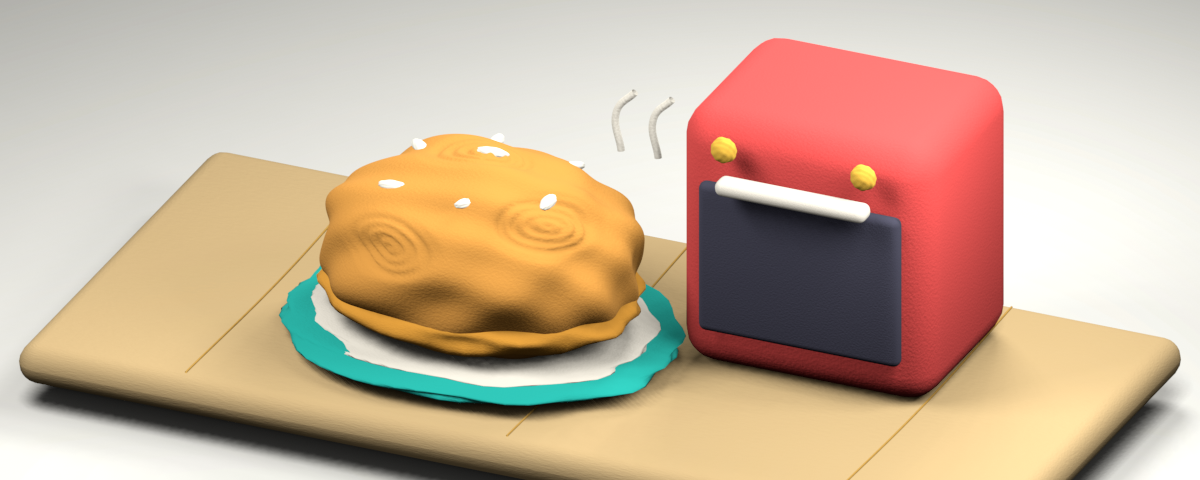
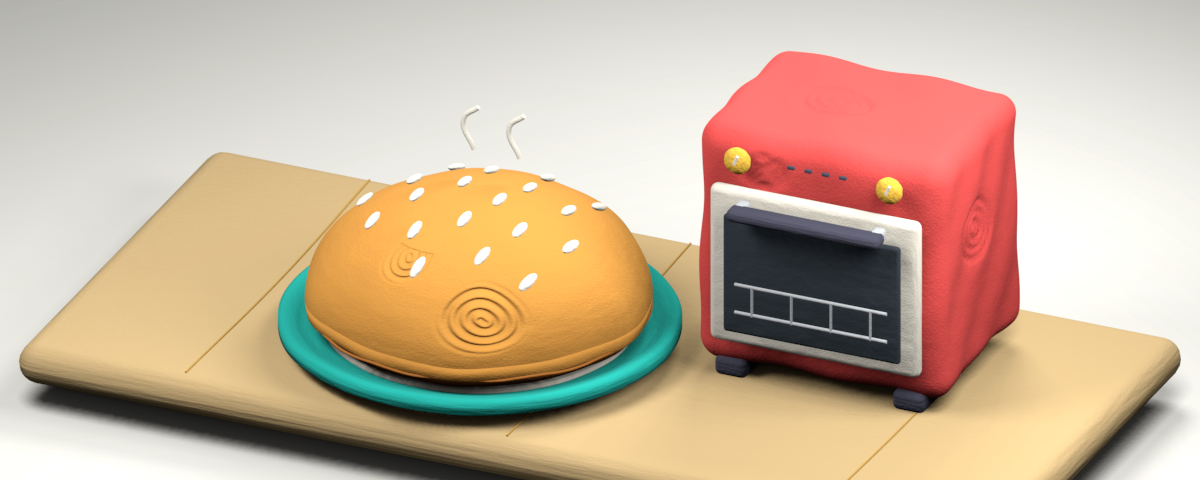
Refine clay miniature proportions and separate process labels

Changed region(s): [[0.2158, 0.0625, 0.8633, 0.9062]]

diff --git a/video-pipeline/pilot/burger/clay/sculpt.py b/video-pipeline/pilot/burger/clay/sculpt.py
@@ -3,7 +3,7 @@
 blender -b -t 4 --python sculpt.py -- [output-directory] [scene filter] [pose]
 No reference image is copied into the artwork. All meshes/materials are procedural.
 """
-import bpy, math, os, sys
+import bpy, bmesh, math, os, sys
 from mathutils import Vector
 
 args = sys.argv[sys.argv.index('--') + 1:] if '--' in sys.argv else []
@@ -27,7 +27,12 @@ def material(name, color, rough=.94):
     noise = nodes.new('ShaderNodeTexNoise'); noise.inputs['Scale'].default_value = 105
     noise.inputs['Detail'].default_value = 3; noise.inputs['Roughness'].default_value = .7
     bump = nodes.new('ShaderNodeBump'); bump.inputs['Strength'].default_value = .24; bump.inputs['Distance'].default_value = .025
-    links.new(noise.outputs['Fac'], bump.inputs['Height']); links.new(bump.outputs['Normal'], bs.inputs['Normal'])
+    links.new(noise.outputs['Fac'], bump.inputs['Height'])
+    broad = nodes.new('ShaderNodeTexNoise'); broad.inputs['Scale'].default_value = 7
+    broad.inputs['Detail'].default_value = 2
+    kneaded = nodes.new('ShaderNodeBump'); kneaded.inputs['Strength'].default_value = .28; kneaded.inputs['Distance'].default_value = .045
+    links.new(broad.outputs['Fac'], kneaded.inputs['Height']); links.new(bump.outputs['Normal'], kneaded.inputs['Normal'])
+    links.new(kneaded.outputs['Normal'], bs.inputs['Normal'])
     return mat
 
 def finish(obj, mat):
@@ -42,24 +47,24 @@ def ball(name, pos, scale, mat, seed=1, dents=False):
     obj = bpy.context.object; obj.name = name
     patches = []
     if dents:
-        for center in [(-.35,-.84,.42), (.58,-.42,.70), (-.05,.14,.99)]:
+        for center in [(.35,-.84,.42)]:
             normal = Vector(center).normalized()
             tangent = normal.cross(Vector((0,0,1))).normalized()
             patches.append((normal, tangent, normal.cross(tangent)))
     for v in obj.data.vertices:
         n = v.co.normalized(); x,y,z = n
-        irregular = 1 + .040*math.sin(x*6+y*4+seed)*math.cos(z*7-x*3) + .019*math.sin(y*15+z*8+seed)
+        irregular = 1 + .018*math.sin(x*6+y*4+seed)*math.cos(z*7-x*3) + .006*math.sin(y*15+z*8+seed)
         if dents:
             for normal, tangent, bitangent in patches:
                 if n.dot(normal) < .85: continue
                 u, w = n.dot(tangent), n.dot(bitangent)
-                radius = math.sqrt((u/.40)**2 + (w/.32)**2)
+                radius = math.sqrt((u/.23)**2 + (w/.17)**2)
                 if radius < 1:
                     mask = min(1, (1-radius)*4)
                     # Concentric, slightly asymmetric fingertip ridges pressed into dough.
                     whorl = radius + .045*math.sin(math.atan2(w,u)*2)
                     groove = .5 + .5*math.cos(whorl*math.tau*4)
-                    irregular -= mask*(.018 + .032*groove)
+                    irregular -= mask*(.006 + .008*groove)
         v.co *= irregular
     # Refresh normals after sculpting; otherwise grooves keep smooth-sphere shading.
     obj.data.update()
@@ -71,9 +76,47 @@ def block(name, pos, scale, mat, bevel=.15):
     mod=obj.modifiers.new('Soft hand-shaped corners', 'BEVEL'); mod.width=bevel; mod.segments=5
     return finish(obj, mat)
 
+def fingerprint(u, v, width=.30, height=.22, depth=.035):
+    """A pressed asymmetric whorl, resolved in geometry rather than painted rings."""
+    u/=width; v/=height; radius=math.hypot(u,v)
+    if radius>=1: return 0
+    whorl=radius+.035*math.sin(2*math.atan2(v,u))
+    mask=min(1,(1-radius)*4)
+    return depth*mask*(.55+.45*math.cos(whorl*math.tau*4))
+
+def hand_block(name,pos,scale,mat,bevel=.15):
+    """A legible rounded appliance with dense, genuinely thumb-pressed surfaces."""
+    count=64; vertices=[]; faces=[]; half=Vector(scale)*.5
+    inner=Vector(tuple(max(.001,h-bevel) for h in half))
+    for axis in range(3):
+      for side in [-1,1]:
+        base=len(vertices); other=[n for n in range(3) if n!=axis]
+        for j in range(count+1):
+          for i in range(count+1):
+            p=Vector((0,0,0)); p[axis]=side*half[axis]
+            p[other[0]]=(i/count*2-1)*half[other[0]]; p[other[1]]=(j/count*2-1)*half[other[1]]
+            core=Vector(tuple(max(-inner[n],min(inner[n],p[n])) for n in range(3)))
+            normal=(p-core).normalized(); p=core+normal*bevel
+            x,y,z=p
+            pressed=.014*math.sin(x*7+y*4+z*3)+.009*math.cos(y*11-z*7)
+            if axis==2 and side==1: pressed-=fingerprint(x+.20,y-.03,.34,.26,.045)
+            if axis==0 and side==1: pressed-=fingerprint(y+.12,z-.20,.31,.31,.040)
+            if axis==1 and side==-1: pressed-=fingerprint(x+.44,z-.69,.22,.16,.028)
+            vertices.append(tuple(p+normal*pressed))
+        for j in range(count):
+          for i in range(count):
+            a=base+j*(count+1)+i; faces.append((a,a+1,a+count+2,a+count+1))
+    mesh=bpy.data.meshes.new(name); mesh.from_pydata(vertices,[],faces)
+    bm=bmesh.new(); bm.from_mesh(mesh)
+    bmesh.ops.remove_doubles(bm,verts=list(bm.verts),dist=.0001)
+    bmesh.ops.recalc_face_normals(bm,faces=list(bm.faces)); bm.to_mesh(mesh); bm.free(); mesh.update()
+    obj=bpy.data.objects.new(name,mesh); bpy.context.collection.objects.link(obj); obj.location=pos
+    return finish(obj,mat)
+
 def rope(name, points, radius, mat):
     curve=bpy.data.curves.new(name, 'CURVE'); curve.dimensions='3D'; curve.resolution_u=12
     curve.bevel_depth=radius; curve.bevel_resolution=4; curve.resolution_u=16
+    curve.use_fill_caps=True
     spline=curve.splines.new('BEZIER'); spline.bezier_points.add(len(points)-1)
     for bp, p in zip(spline.bezier_points,points): bp.co=p; bp.handle_left_type=bp.handle_right_type='AUTO'
     obj=bpy.data.objects.new(name,curve); bpy.context.collection.objects.link(obj); return finish(obj,mat)
@@ -82,11 +125,39 @@ def ring(name, pos, radius, thickness, mat, sy=1):
     pts=[(pos[0]+radius*math.cos(i*math.tau/48),pos[1]+radius*math.sin(i*math.tau/48)*sy,pos[2]+.007*math.sin(i*1.7)) for i in range(49)]
     return rope(name,pts,thickness,mat)
 
-def fingerprints(pos, rx, ry, mat):
-    x,y,z=pos
-    for j in range(4):
-        pts=[(x+(rx+j*.026)*math.cos(a),y-.007*j,z+(ry+j*.016)*math.sin(a)) for a in [math.pi*(.18+k*.036) for k in range(17)]]
-        rope('Pressed fingerprint ridge',pts,.008,mat)
+def lathe(name, pos, profile, mat, scale=(1,1,1), seed=1, hand=.008, stamp=False):
+    """Closed, round silhouettes with deliberate sidewalls, rims and flat bases."""
+    segments=512 if stamp else 160; vertices=[]; faces=[]
+    for z,r in profile:
+        for i in range(segments):
+            a=math.tau*i/segments
+            wobble=1+hand*math.sin(5*a+seed)*math.sin(z*5+.5)+hand*.35*math.cos(11*a+seed)
+            rr=r*wobble
+            if stamp and r>.65:
+                u=(a-math.tau if a>math.pi else a)+1.14
+                rr-=fingerprint(u,z-.49,.32,.19,.040)
+                rr-=fingerprint(u+.70,z-.73,.25,.12,.027)
+            vertices.append((rr*math.cos(a)*scale[0],rr*math.sin(a)*scale[1],z*scale[2]))
+    for j in range(len(profile)-1):
+        for i in range(segments):
+            n=(i+1)%segments; a=j*segments; b=(j+1)*segments
+            faces.append((a+i,a+n,b+n,b+i))
+    mesh=bpy.data.meshes.new(name); mesh.from_pydata(vertices,[],faces); mesh.update()
+    obj=bpy.data.objects.new(name,mesh); bpy.context.collection.objects.link(obj); obj.location=pos
+    return finish(obj,mat)
+
+def rod(name, a, b, radius, mat):
+    """A capped wooden/metal shaft with softly rounded ends."""
+    return rope(name,[a,b],radius,mat)
+
+def puck(name,pos,radius,height,mat,seed=1,stamp=False):
+    bevel=min(.12,height*.28); inner=radius-bevel
+    profile=[(0,0),(0,inner)]
+    profile += [(bevel+bevel*math.sin(a),inner+bevel*math.cos(a)) for a in [-math.pi/2+i*math.pi/24 for i in range(13)]]
+    profile += [(height-bevel,radius)]
+    profile += [(height-bevel+bevel*math.sin(a),inner+bevel*math.cos(a)) for a in [i*math.pi/24 for i in range(13)]]
+    profile += [(height-.008,inner*.7),(height-.014,inner*.35),(height-.014,0)]
+    return lathe(name,pos,profile,mat,seed=seed,hand=.008,stamp=stamp)
 
 def setup():
     bpy.ops.object.select_all(action='SELECT'); bpy.ops.object.delete(use_global=False)
@@ -102,7 +173,8 @@ def setup():
       'yellow':'F7C344','dough':'F5D177','orange':'EAA337','bread':'E6A044',
       'teal':'18BBAE','blue':'368DCC','red':'F0514E','pink':'E66B82','meat':'845239',
       'cream':'F5EEE0','table':'D8B984','white':'FFFBED','dark':'474658','green':'59B94F',
-      'print':'D4A44B','brownprint':'70422C','backdrop':'F4F2EB','silver':'C6C9CE'}.items()}
+      'print':'D4A44B','brownprint':'57392C','backdrop':'F4F2EB','silver':'C6C9CE',
+      'crumb':'F4D496','crust':'BF762E','fat':'EBA8AB','rawdetail':'C44C66','glass':'343D46'}.items()}
     block('Clay worktop', (0,0,-.10),(7.9,3.7,.32),M['table'],.22)
     # Small uneven seams make the tabletop a built miniature rather than a UI rectangle.
     for x in [-2.6,0,2.6]:
@@ -117,107 +189,157 @@ def setup():
     return M
 
 def plate(x,y,M,r=1.3):
-    ball('Plate',(x,y,.19),(r,r*.8,.11),M['teal'],14)
-    ball('Plate center',(x,y,.25),(r*.87,r*.68,.075),M['cream'],15)
+    lathe('Thick plate with rolled rim',(x,y,.08),[(0,0),(0,r*.7),(.04,r*.9),(.12,r),(.20,r),(.23,r*.97),(.19,r*.9),(.12,r*.76),(.12,0)],M['teal'],hand=.004)
+    puck('Cream plate well',(x,y,.19),r*.77,.045,M['cream'])
 
 def bun(x,y,z,M,scale=1, baked=True):
-    # Separate hand-pressed bottom rim, irregular dome and individually rolled sesame.
-    ball('Pressed bun rim',(x,y,z-.14*scale),(1.04*scale,.83*scale,.22*scale),M['orange'] if baked else M['dough'],7)
-    ball('Hand-molded bun',(x,y,z+.12*scale),(1.03*scale,.83*scale,.62*scale),M['bread'] if baked else M['dough'],8,True)
+    # One continuous dome: a stable flat base, narrow crumb band and rounded shoulder.
+    profile=[(0,0),(0,.90),(.04,1.04),(.12,1.11),(.21,1.12)]
+    profile += [(.21+.67*math.cos(a),1.12*math.sin(a)) for a in [math.pi/2-i*math.pi/384 for i in range(193)]]
+    obj=lathe('Round bun dome',(x,y,z),profile,M['bread'] if baked else M['dough'],(scale,scale,scale),seed=8,hand=.018,stamp=True)
     if baked:
-      for j,(dx,dy) in enumerate([(-.45,-.32),(.1,-.4),(.52,-.16),(-.5,.2),(0,.15),(.43,.35),(-.12,.48)]):
-        zz=z+.10*scale+.62*scale*math.sqrt(max(.1,1-(dx/1.03)**2-(dy/.83)**2))
-        seed=ball('Rolled sesame',(x+dx*scale,y+dy*scale,zz),(.11*scale,.043*scale,.033*scale),M['white'],j+1)
-        seed.rotation_euler[2]=j*.8
-    else:
-      fingerprints((x-.17*scale,y-.73*scale,z+.23*scale),.19*scale,.11*scale,M['print'])
+      obj.data.materials.append(M['crumb']); obj.data.materials.append(M['crust'])
+      for polygon in obj.data.polygons:
+        row=polygon.index//512
+        if row<2: polygon.material_index=1
+        elif row==2: polygon.material_index=2
+      for j in range(19):
+        a=j*2.39996; rr=.86*math.sqrt((j+.5)/19)
+        dx,dy=rr*math.cos(a),rr*math.sin(a)
+        zz=z+scale*(.21+.67*math.sqrt(1-(rr/1.12)**2))+.020
+        seed=ball('Individual sesame',(x+dx*scale,y+dy*scale,zz),(.086*scale,.035*scale,.023*scale),M['white'],j+1)
+        normal=Vector((dx/1.12**2,dy/1.12**2,math.sqrt(1-(rr/1.12)**2)/.67))
+        seed.rotation_euler=normal.to_track_quat('Z','Y').to_euler(); seed.rotation_euler.rotate_axis('Z',j*.73)
+      ring('Bun lower crease',(x,y,z+.115*scale),1.108*scale,.009*scale,M['crust'])
 
 def flour_jar(M):
-    block('Flour jar',(-2.6,.65,.55),(.74,.7,.96),M['cream'],.18)
-    block('Rolled red lid',(-2.6,.65,1.08),(.86,.79,.18),M['red'],.09)
-    rope('Wheat stem',[(-2.65,.275,.34),(-2.65,.275,.76)],.024,M['orange'])
-    for dx,dz in [(-.07,.48),(.07,.58),(-.07,.67)]: ball('Wheat grain',(-2.65+dx,.26,dz),(.08,.026,.045),M['orange'])
+    lathe('Flour canister',(-2.7,.65,.09),[(0,0),(0,.32),(.06,.40),(.86,.40),(.94,.34),(.99,.34),(.99,0)],M['cream'])
+    puck('Red screw lid',(-2.7,.65,1.06),.44,.14,M['red'])
+    ring('Lid seam',(-2.7,.65,1.10),.441,.012,M['crust'])
+    block('Flour label',(-2.7,.245,.65),(.46,.035,.53),M['white'],.045)
+    rope('Wheat stem',[(-2.7,.215,.43),(-2.7,.215,.84)],.018,M['orange'])
+    for j in range(3):
+      for side in [-1,1]:
+        grain=ball('Wheat label grain',(-2.7+side*.066,.207,.52+j*.10),(.062,.022,.035),M['orange'],j)
+        grain.rotation_euler[1]=side*.45
 
 def tools(M):
-    pin=ball('Rolling pin',(2.45,-.45,.29),(.32,.87,.24),M['orange'],4); pin.rotation_euler[2]=.4
-    rope('Pin handle',[(2.04,-1.35,.29),(2.85,.49,.29)],.09,M['red'])
-    ball('Loose flour',(-1.8,-1.1,.13),(.38,.23,.06),M['cream'],15)
+    # Roller and handles share one axis, rather than a rod crossing an oval blob.
+    rod('Rolling pin barrel',(2.35,-.72,.34),(2.35,.44,.34),.23,M['orange'])
+    rod('Rolling pin front handle',(2.35,-1.05,.34),(2.35,-.72,.34),.09,M['red'])
+    rod('Rolling pin back handle',(2.35,.44,.34),(2.35,.77,.34),.09,M['red'])
+    ball('Loose flour',(-1.8,-1.1,.12),(.30,.20,.035),M['cream'],15)
+    for j in range(8): ball('Flour grain',(-1.6+.08*math.sin(j*4),-.95+.07*j,.11),(.018,.016,.012),M['cream'],j)
 
 def mixing(M,pose):
     flour_jar(M); tools(M)
-    ball('Bowl body',(0,0,.53),(1.23,1.0,.60),M['teal'],21)
-    ring('Thick rolled bowl rim',(0,0,1.02),1.14,.105,M['teal'],.83)
-    ball('Dough in bowl',(0,0,1.00),(1.06,.84,.16),M['dough'],17,True)
-    # Successive posed angles, rendered as held stop-motion exposures.
+    lathe('Open mixing bowl',(0,0,.09),[(0,0),(0,.40),(.12,.65),(.48,.94),(.91,1.10),(1.02,1.11),(1.06,1.06),(.96,1.01),(.52,.87),(.22,.48),(.20,0)],M['teal'],hand=.005)
+    ring('Rolled bowl lip',(0,0,1.12),1.075,.045,M['teal'])
+    ball('Dough mound',(0,-.04,.83),(.85,.72,.33),M['dough'],17,True)
     ang=(pose-1.5)*.15
-    rope('Wooden mixing spoon',[(.2+ang,0,1.03),(.40+ang,.13,1.58),(.65+ang,.20,2.22)],.075,M['orange'])
-    ball('Spoon end',(.65+ang,.2,2.22),(.10,.09,.15),M['orange'],13)
-    ball('Folded dough',(-.28+ang,0,1.13),(.46,.29,.18),M['dough'],6)
+    rope('Folded dough ridge',[(-.61,-.15,.99),(-.40,-.36,1.10),(.01,-.25,1.13),(.31,-.12,1.04)],.065,M['dough'])
+    rod('Wooden spoon handle',(.22+ang,.05,1.0),(.64+ang,.19,2.10),.048,M['orange'])
+    spoon=ball('Oval spoon paddle',(.24+ang,-.01,1.05),(.16,.055,.27),M['orange'],6); spoon.rotation_euler[1]=-.30
+    ball('Rounded handle tip',(.64+ang,.19,2.10),(.052,.052,.06),M['orange'])
     for i in range(3): ball('Dough crumb',(-.7+i*.58,-1.2,.16),(.10,.08,.08),M['dough'],i)
 
 def proof(M,pose):
     flour_jar(M); tools(M); plate(0,0,M,1.48)
-    bun(0,0,.65+pose*.035,M,1.06+pose*.045,False)
-    # A visible kneaded seam pressed into the rear of the mound.
-    rope('Kneaded seam',[(-.7,.3,1.05),(-.3,.55,1.25),(.2,.5,1.32),(.6,.23,1.18)],.035,M['dough'])
+    bun(0,0,.24,M,.92+pose*.035,False)
+    # A restrained flour dusting gives the dough a readable surface without melting its outline.
+    for j in range(7):
+      a=j*2.4; rr=.55*math.sqrt((j+1)/7)
+      ball('Flour on proofing dough',(rr*math.cos(a),rr*math.sin(a),.24+(.92+pose*.035)*(.21+.67*math.sqrt(1-(rr/1.12)**2))),(.025,.020,.007),M['cream'],j)
 
 def oven(M,pose):
-    block('Red clay oven',(1.7,.65,1.13),(2.05,1.6,2.12),M['red'],.26)
-    block('Oven opening',(1.7,-.18,1.05),(1.63,.12,1.23),M['dark'],.17)
-    block('Oven handle',(1.7,-.32,1.73),(1.22,.18,.13),M['cream'],.06)
-    for x in [1.12,2.25]: ball('Oven knob',(x,-.27,2.00),(.1,.07,.1),M['yellow'],3)
-    plate(-.8,-.35,M,1.55); bun(-.8,-.35,.69,M,1.20,True)
+    hand_block('Red clay oven',(1.85,.57,1.15),(2.0,1.52,1.93),M['red'],.16)
+    for xx in [1.13,2.57]: block('Oven feet',(xx,.22,.15),(.26,.82,.16),M['dark'],.05)
+    block('Oven door surround',(1.85,-.225,1.05),(1.70,.12,1.29),M['cream'],.11)
+    block('Dark glass window',(1.85,-.301,1.01),(1.43,.055,.97),M['glass'],.10)
+    # Visible miniature rack and tray, kept graphic rather than photorealistic glass.
+    for zz in [.71,.94]: rod('Oven rack',(1.24,-.34,zz),(2.47,-.34,zz),.014,M['silver'])
+    for xx in [1.38,1.70,2.02,2.34]: rod('Rack divider',(xx,-.344,.70),(xx,-.344,.94),.010,M['silver'])
+    block('Oven handle',(1.85,-.43,1.58),(1.24,.16,.10),M['dark'],.045)
+    for xx in [1.30,2.40]: block('Handle mount',(xx,-.35,1.58),(.10,.14,.10),M['silver'],.03)
+    for x in [1.22,2.45]:
+      dial=ball('Control dial',(x,-.245,1.92),(.105,.065,.105),M['yellow'])
+      rod('Dial pointer',(x,-.312,1.92),(x+.03,-.312,1.99),.012,M['cream'])
+    for xx in [1.64,1.78,1.92,2.06]: block('Oven vent',(xx,-.212,1.93),(.06,.025,.028),M['dark'],.008)
+    plate(-.82,-.35,M,1.50); bun(-.82,-.35,.24,M,1.15,True)
     for j in range(2):
-      rope('Clay heat curl',[(.15+j*.3,.05,1.65),(.10+j*.3,.08,1.88+pose*.025),(.24+j*.3,.1,2.13)],.028,M['cream'])
+      rope('Clay heat curl',[(-1.04+j*.37,.05,1.42),(-1.13+j*.37,.06,1.59+pose*.02),(-1.02+j*.37,.08,1.76)],.020,M['cream'])
 
 def board(M):
-    block('Cutting board',(0,-.15,.22),(3.7,2.15,.22),M['orange'],.2)
-    ball('Board hanging hole',(-1.55,-.86,.344),(.1,.1,.015),M['brownprint'])
+    block('Cutting board',(0,-.15,.19),(3.65,2.22,.20),M['orange'],.11)
+    block('Board handle',(-2.03,-.15,.19),(.60,.59,.18),M['orange'],.12)
+    ring('Board hanging hole',(-2.09,-.15,.288),.095,.024,M['crust'])
+    for j in range(5):
+      xx=-1.45+j*.67
+      rope('Cutting board grain',[(xx,-1.04,.294),(xx+.04,-.15,.294),(xx-.02,.73,.294)],.005,M['print'])
 
 def mince(M,pose):
     board(M); flour_jar(M)
-    for row in range(6):
-      y=-.7+row*.22
-      pts=[(-.9+i*.36,y+.045*math.sin(i*2+row),.42+.015*math.sin(i)) for i in range(6)]
-      rope('Rolled pink mince',pts,.105,M['pink'])
-    knife=block('Chunky toy blade',(.05,-.1,1.02+pose*.08),(1.4,.12,.40),M['silver'],.09)
-    knife.rotation_euler[1]=-.12
-    handle=block('Red knife handle',(.99,-.10,1.16+pose*.08),(.63,.20,.23),M['red'],.09)
-    for i in range(3): ball('Cut dough pieces',(-1.05+i*.46,-1.02,.43),(.16,.13,.12),M['pink'],i+1)
+    for row in range(5):
+      yy=-.27+row*.19
+      rope('Capped clay mince',[(-.94+i*.23,yy+.022*math.sin(i*2+row),.39) for i in range(5)],.082,M['pink'])
+    for j in range(22):
+      xx=.45+(j%5)*.18+.02*math.sin(j*6); yy=-.75+(j//5)*.20
+      chunk=block('Diced mince',(xx,yy,.38+(j%3)*.014),(.16,.14,.14),M['pink'] if j%4 else M['fat'],.047)
+      chunk.rotation_euler[2]=.3*math.sin(j*7)
+    # Blade, bolster and riveted handle are visibly one connected kitchen knife.
+    lift=pose*.055
+    block('Knife blade',(-.45,.07,.88+lift),(1.43,.075,.37),M['silver'],.045)
+    rod('Knife spine',(-1.12,.07,1.065+lift),(.25,.07,1.065+lift),.019,M['cream'])
+    block('Knife bolster',(.29,.07,1.01+lift),(.12,.13,.20),M['dark'],.03)
+    block('Knife handle',(.68,.07,1.04+lift),(.72,.17,.20),M['red'],.06)
+    for xx in [.48,.84]: ball('Handle rivet',(xx,-.019,1.04+lift),(.026,.012,.026),M['silver'])
 
 def patty(M,pose,cooked=False):
     mat=M['meat'] if cooked else M['pink']
-    lift = .4 if cooked else 0
-    ball('Thick patty base',(0,-.2,.56+lift),(1.25,1.02,.27),mat,4,True)
-    ball('Hand-pressed patty',(0,-.2,.66+lift),(1.26,1.01,.24),mat,9,True)
+    base=.80 if cooked else .295
+    radius=1.04 if cooked else 1.12; height=.40 if cooked else .43
+    puck('Single thick patty',(0,-.18,base),radius,height,mat,seed=9)
+    for j in range(29):
+      a=j*2.39996; rr=radius*.88*math.sqrt((j+.5)/29)
+      xx,yy=rr*math.cos(a),-.18+rr*math.sin(a)
+      col=M['brownprint'] if cooked and j%3 else M['crust'] if cooked else M['rawdetail'] if j%3 else M['fat']
+      ball('Pressed clay meat fleck',(xx,yy,base+height-.009),(.030+.012*(j%2),.023,.010),col,j)
     if cooked:
-      for j in [-1,0,1]:
-        x=j*.55
-        rope('Pressed grill groove',[(x-.17,-.85,.79+lift),(x-.06,-.45,.875+lift),(x+.1,.2,.85+lift),(x+.17,.48,.77+lift)],.032,M['brownprint'])
-    else:
-      fingerprints((-.12,-1.07,.72),.23,.12,M['pink'])
+      for xx in [-.58,-.20,.20,.58]:
+        span=math.sqrt(max(.1,(radius*.86)**2-xx**2))
+        rope('Dark sear mark',[(xx-.10,-.18-span,base+height-.005),(xx,-.18,base+height+.003),(xx+.10,-.18+span,base+height-.005)],.025,M['brownprint'])
+    # Tiny pressed sidewall marks preserve the clay feel without a ragged double layer.
+    for j in range(12):
+      a=-math.pi*.90+j*math.pi*.067
+      xx,yy=(radius+.001)*math.cos(a),-.18+(radius+.001)*math.sin(a)
+      ball('Hand-pressed edge grain',(xx,yy,base+.17),(.026,.019,.035),mat,j)
 
 def shaping(M,pose):
-    plate(0,-.2,M,1.65); patty(M,pose)
-    # Dough tools remain simple clay props; no borrowed characters or logos.
-    for side in [-1,1]:
-      xx=side*(1.5-pose*.035)
-      ball('Palm',(xx,.18,.79),(.42,.52,.28),M['cream'],11)
-      for j in range(3): ball('Clay finger',(xx-side*.14,-.22+j*.19,.64),(.26,.10,.14),M['cream'],j)
-    ball('Spare pink dough',(-2.7,.65,.39),(.48,.36,.34),M['pink'],25,True)
-    block('Teal modeling tool',(2.65,.65,.21),(.21,1.1,.19),M['teal'],.09)
+    board(M); patty(M,pose)
+    ball('Spare pink dough',(-2.64,.66,.42),(.40,.36,.33),M['pink'],25,True)
+    # Recognizable patty mold and wooden press replace the ambiguous floating mittens.
+    lathe('Patty mold',(2.46,.52,.09),[(0,.47),(0,.60),(.32,.60),(.35,.57),(.32,.51),(0,.47)],M['silver'],hand=.003)
+    puck('Wooden burger press',(2.43,-.64,.11+pose*.025),.53,.13,M['orange'])
+    rod('Press handle',(2.43,-.64,.24+pose*.025),(2.43,-.64,.62+pose*.025),.10,M['teal'])
+    ball('Press handle grip',(2.43,-.64,.63+pose*.025),(.22,.12,.09),M['teal'])
 
 def grill(M,pose):
-    block('Toy grill body',(0,0,.32),(3.4,2.4,.48),M['red'],.23)
-    block('Grill surface',(0,-.1,.59),(3.13,2.1,.14),M['dark'],.10)
-    for x in [-1.2,-.8,-.4,0,.4,.8,1.2]: rope('Thick grill bar',[(x,-1.0,.70),(x,.85,.70)],.055,M['silver'])
-    # Steam curls flex between the held claymation exposures.
+    for xx in [-1.25,1.25]: block('Grill foot',(xx,0,.16),(.34,1.62,.18),M['dark'],.05)
+    block('Toy grill body',(0,0,.39),(3.4,2.4,.48),M['red'],.16)
+    block('Recessed grill tray',(0,-.08,.67),(3.13,2.10,.14),M['dark'],.10)
+    for x in [-1.25,-.94,-.63,-.32,0,.32,.63,.94,1.25]: rod('Capped grill bar',(x,-1.02,.76),(x,.88,.76),.037,M['silver'])
     patty(M,pose,True)
-    for x in [-.7,0,.7]:
-      rope('Physical clay steam',[(x,.10,1.35),(x-.13,.12,1.70+pose*.025),(x+.08,.13,1.97+pose*.025)],.035,M['cream'])
-    for x in [-1,0,1]: ball('Yellow control',(x,-1.23,.31),(.12,.07,.12),M['yellow'],2)
-    block('Spatula handle',(2.35,-.25,.27),(.22,1.55,.18),M['teal'],.08)
-    block('Spatula blade',(2.35,.58,.31),(.66,.67,.08),M['silver'],.08)
+    for x in [-.55,.05,.6]:
+      rope('Physical clay steam',[(x,.04,1.25),(x-.08,.06,1.48+pose*.02),(x+.04,.08,1.68+pose*.02)],.020,M['cream'])
+    for x in [-.95,.95]:
+      ball('Grill temperature dial',(x,-1.225,.40),(.105,.055,.105),M['yellow'])
+      rod('Temperature pointer',(x,-1.283,.40),(x+.03,-1.283,.47),.012,M['cream'])
+    ball('Heating indicator',(0,-1.232,.42),(.045,.018,.045),M['orange'])
+    # A slotted turner, with its metal neck attached to a shaped handle.
+    block('Spatula grip',(2.47,-.58,.19),(.22,.95,.15),M['teal'],.07)
+    block('Spatula neck',(2.47,.03,.22),(.11,.36,.07),M['silver'],.025)
+    block('Spatula head',(2.47,.51,.25),(.66,.65,.065),M['silver'],.055)
+    for xx in [2.30,2.47,2.64]: block('Turner slot',(xx,.51,.286),(.055,.35,.008),M['dark'],.018)
 
 for label,build in [('bun-mix',mixing),('bun-proof',proof),('bun-bake',oven),('patty-mince',mince),('patty-shape',shaping),('patty-grill',grill)]:
     if FILTER and FILTER not in label: continue

diff --git a/video-pipeline/pilot/burger/clay/README.md b/video-pipeline/pilot/burger/clay/README.md
@@ -14,6 +14,12 @@ and export cadence remain 30fps. Texture never flickers randomly.
 Fingerprint whorls are physically pressed into the mesh; broader unevenness
 breaks up the silhouette, while a fine surface bump and high roughness keep
 the dough matte rather than smooth plastic.
+The revised silhouettes use one continuous bun dome, a beveled patty sidewall,
+and properly open bowls and molds. Connected miniature parts make the tools
+legible: the oven has a door frame, rack, vents and dials; the knife has a blade,
+bolster and riveted handle; the grill has capped bars and a slotted turner.
+Dense hero meshes retain pressed fingerprint grooves on the rounded bun and
+hand-shaped oven rather than trading the clay surface for cleaner proportions.
 
 Visual reference: [The Play-Doh Show — BBQ Burger Bash](https://www.toongoggles.com/shows/play-doh-show/season/1/episode/22).
 The reference informed the tabletop staging, matte physical material and
